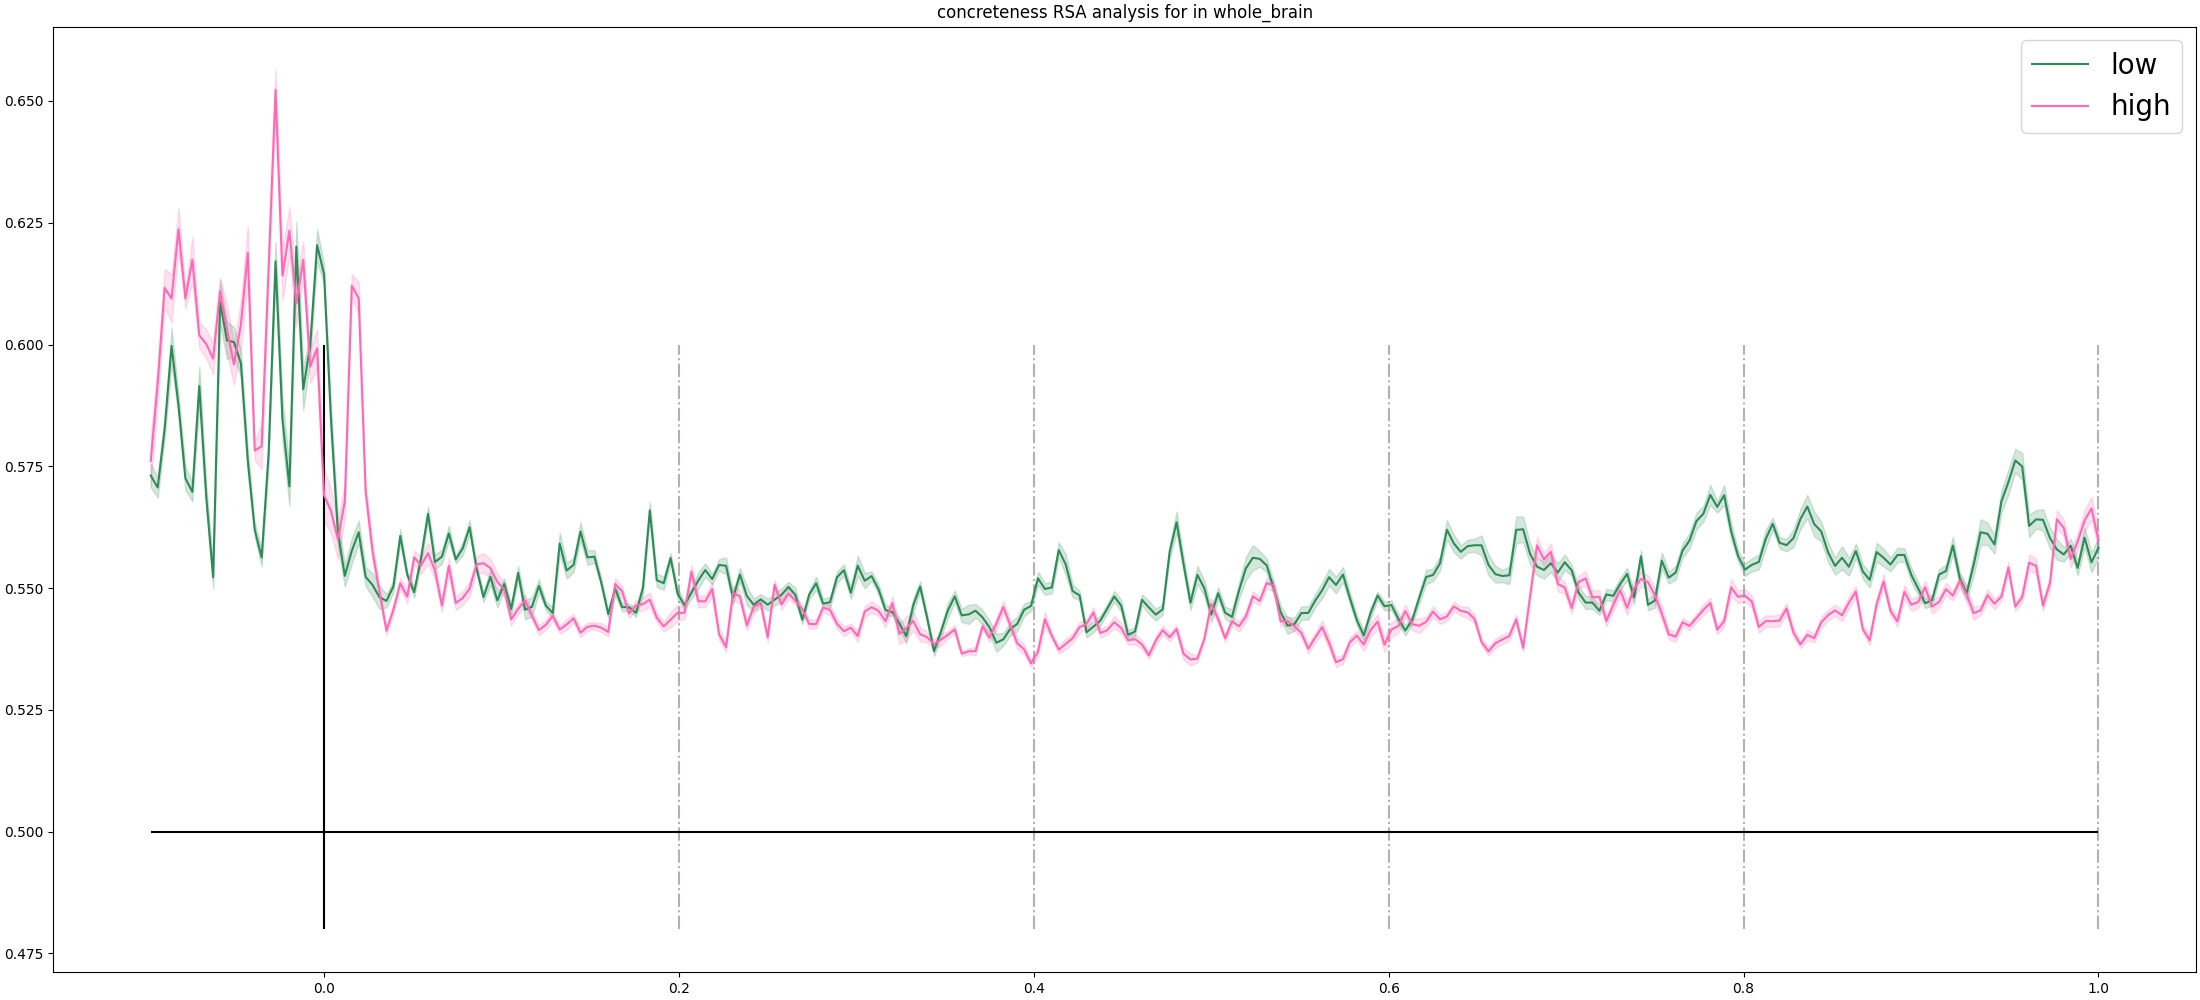
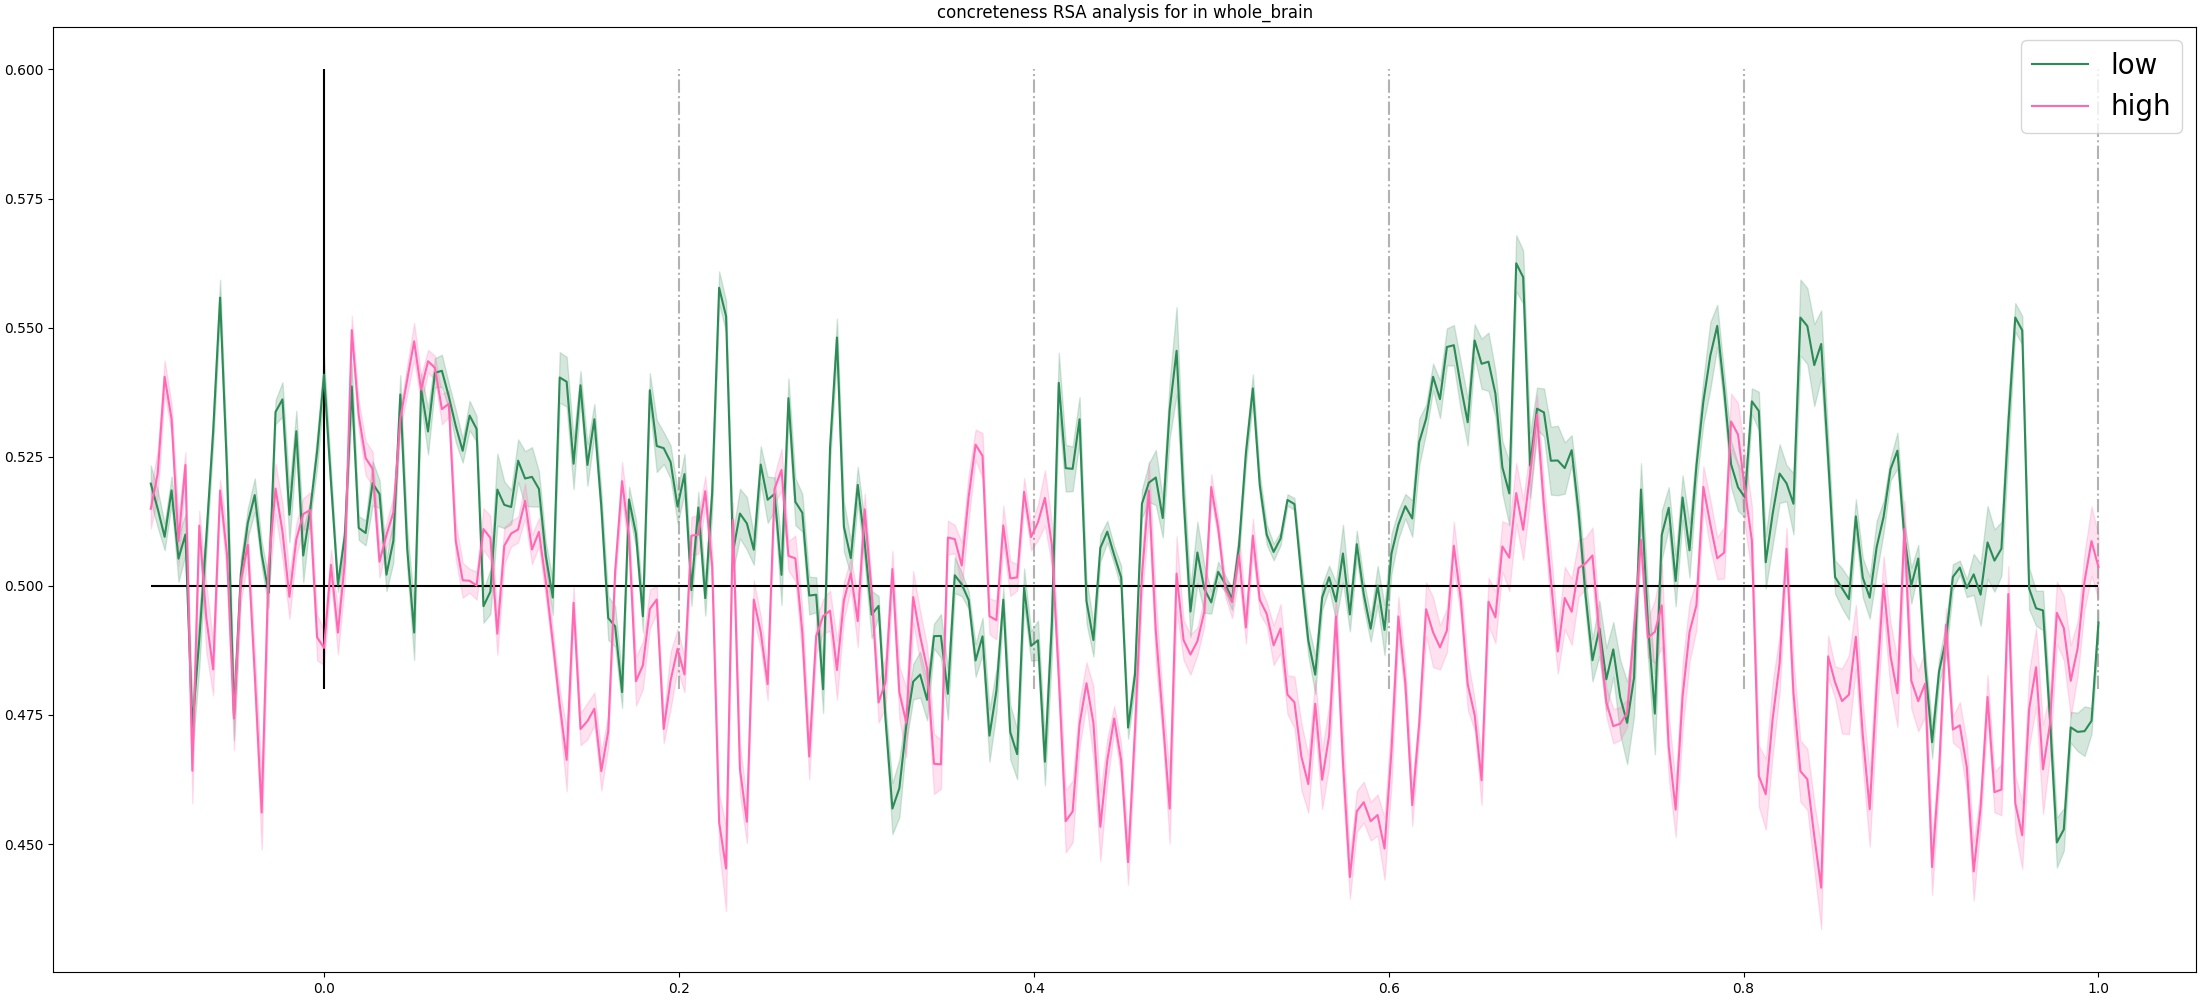
finally got something meaningful

Changed region(s): [[0.0618, 0.093, 0.9582, 0.899], [0.0927, 0.806, 0.1236, 0.837], [0.0, 0.434, 0.0309, 0.465]]

diff --git a/04_rsa_simple.py b/04_rsa_simple.py
@@ -45,18 +45,18 @@ def compute_corrs(t):
 def compute_ranking(t):
     t_data = {k : v[elecs, t] for k, v in erp_data.items()}
     accuracies = list()
-    for test_item, real_vec in t_data.items():
+    for test_item in t_data.keys():
 
-        '''
-        ### remove average activity
+        ### z-scoring
         avg_data = numpy.average([v for k, v in t_data.items() if k!=test_item], axis=0)
-        current_data = {k : v-avg_data for k, v in t_data.items()}
-        pred = numpy.sum([current_data[w]*similarities[model][tuple(sorted([w, test_item]))] for w in t_data.keys() if w!=test_item], axis=0)
-        scores = {w : scipy.stats.pearsonr(erp, pred)[0] for w, erp in current_data.items()}
-        '''
-        ### leaves ERPs untouched
-        #pred = numpy.sum([t_data[w]*similarities[model][tuple(sorted([w, test_item]))] for w in t_data.keys() if w!=test_item], axis=0)
-        pred = numpy.sum([t_data[w]*-distances[model][tuple(sorted([w, test_item]))] for w in t_data.keys() if w!=test_item], axis=0)
+        std_data = numpy.std([v for k, v in t_data.items() if k!=test_item], axis=0)
+        current_data = {k : (v-avg_data)/std_data for k, v in t_data.items()}
+        #num = numpy.sum([current_data[w]*-distances[model][tuple(sorted([w, test_item]))] for w in current_data.keys() if w!=test_item], axis=0)
+        num = numpy.sum([current_data[w]*similarities[model][tuple(sorted([w, test_item]))] for w in current_data.keys() if w!=test_item], axis=0)
+        #den = numpy.sum([abs(distances[model][tuple(sorted([w, test_item]))]) for w in current_data.keys() if w!=test_item])
+        #pred = num / den
+        pred = num.copy()
+        #pred = numpy.sum([t_data[w]*-distances[model][tuple(sorted([w, test_item]))] for w in t_data.keys() if w!=test_item], axis=0)
         scores = {w : scipy.stats.pearsonr(erp, pred)[0] for w, erp in t_data.items()}
         ### sorting and looking at ranking
         sorted_w = [v[0] for v in sorted(scores.items(), key=lambda item : item[1], reverse=True)]
@@ -114,12 +114,12 @@ def one_two_norm(vectors):
     vectors = {n : l for n, l in zip(names, norm_labels)}
     return vectors
 
-def invert_and_norm_one_two(vectors):
+def invert_and_norm_minus_one_one(vectors):
     labels = [k[1] for k in vectors]
     names = [k[0] for k in vectors]
-    norm_labels = [2-((x-min(labels))/(max(labels)-min(labels))) for x in labels]
-    assert min(norm_labels) == 1
-    assert max(norm_labels) == 2
+    norm_labels = [-(2*((x-min(labels))/(max(labels)-min(labels)))-1) for x in labels]
+    assert min(norm_labels) == -1
+    assert max(norm_labels) == 1
     vectors = {n : l for n, l in zip(names, norm_labels)}
     return vectors
 
@@ -239,7 +239,8 @@ for w_one, w_two in all_combs:
 ## in a scale from 1 to 2
 similarities = dict()
 for h, h_scores in distances.items():
-    similarities[h] = invert_and_norm_one_two(h_scores.items())
+    similarities[h] = invert_and_norm_minus_one_one(h_scores.items())
+    #similarities[h] = zero_one_norm(h_scores.items())
 
 general_folder = 'rsa_plots'
 
@@ -266,7 +267,8 @@ for model in [
             raw_f = mne.read_epochs(
                                     eeg_f,
                                     verbose=False,
-                                    preload=True)
+                                    preload=True,
+                                    )
             s_data = raw_f.get_data(picks='eeg')
             '''
             s_data_unscaled = raw_f.get_data(picks='eeg')
